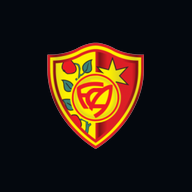
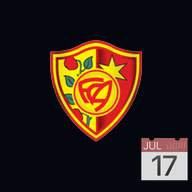
Skeleton-Ladeanimation + Auto-Refresh bei Tab-Wechsel (#2)
* Skeleton-Ladeanimation + Auto-Refresh bei Tab-Wechsel

Alle Seiten laden Daten neu, wenn der Tab/die PWA wieder in den
Vordergrund kommt (visibilitychange) – so sieht man immer den
aktuellen Stand, auch wenn ein anderer Trainer zwischenzeitlich
Änderungen gemacht hat.

Dashboard und Session-Edit zeigen während des Ladens animierte
Skeleton-Platzhalter statt "Lädt…"-Text.

* App umbenennen zu "FCA Anwesenheiten"

* Icon: Kalender-Badge unten rechts für App-Unterscheidung

---------

Changed region(s): [[0.2188, 0.1875, 0.75, 0.7812], [0.7188, 0.7188, 1.0, 0.9688]]

diff --git a/app/session/[id]/page.tsx b/app/session/[id]/page.tsx
@@ -9,6 +9,37 @@ import { buttonVariants } from '@/components/ui/button'
 import SessionForm from '@/components/SessionForm'
 import { cn } from '@/lib/utils'
 
+function SessionFormSkeleton() {
+  return (
+    <div className="space-y-5 animate-pulse">
+      <div className="space-y-1.5">
+        <div className="h-3 w-12 rounded bg-muted" />
+        <div className="h-11 w-full rounded-xl bg-muted" />
+      </div>
+      <div className="space-y-1.5">
+        <div className="h-3 w-8 rounded bg-muted" />
+        <div className="grid grid-cols-2 gap-2">
+          <div className="h-12 rounded-xl bg-muted" />
+          <div className="h-12 rounded-xl bg-muted" />
+        </div>
+      </div>
+      <div className="space-y-1.5">
+        <div className="h-3 w-20 rounded bg-muted" />
+        <div className="h-11 w-full rounded-xl bg-muted" />
+      </div>
+      <div className="space-y-3">
+        <div className="h-3 w-16 rounded bg-muted" />
+        <div className="grid grid-cols-2 gap-2 sm:grid-cols-3">
+          {Array.from({ length: 15 }).map((_, i) => (
+            <div key={i} className="h-16 rounded-xl bg-muted" />
+          ))}
+        </div>
+      </div>
+      <div className="h-12 w-full rounded-xl bg-muted" />
+    </div>
+  )
+}
+
 export default function EditSessionPage() {
   const { id } = useParams<{ id: string }>()
   const [players, setPlayers] = useState<Player[]>([])
@@ -17,27 +48,35 @@ export default function EditSessionPage() {
   const [loading, setLoading] = useState(true)
 
   useEffect(() => {
-    async function load() {
-      const [{ data: sessionData }, { data: playerData }, { data: attendanceData }] =
-        await Promise.all([
-          supabase.from('sessions').select('*').eq('id', id).single(),
-          supabase.from('players').select('*').eq('active', true).order('vorname'),
-          supabase.from('attendance').select('*').eq('session_id', id),
-        ])
-
-      setSession(sessionData)
-      setPlayers(playerData ?? [])
-
-      const map: Record<string, boolean> = {}
-      for (const p of playerData ?? []) {
-        const record = (attendanceData ?? []).find((a) => a.player_id === p.id)
-        map[p.id] = record?.present ?? false
-      }
-      setAttendance(map)
-      setLoading(false)
-    }
     load()
+
+    const onVisible = () => {
+      if (document.visibilityState === 'visible') load()
+    }
+    document.addEventListener('visibilitychange', onVisible)
+    return () => document.removeEventListener('visibilitychange', onVisible)
   }, [id])
+
+  async function load() {
+    setLoading(true)
+    const [{ data: sessionData }, { data: playerData }, { data: attendanceData }] =
+      await Promise.all([
+        supabase.from('sessions').select('*').eq('id', id).single(),
+        supabase.from('players').select('*').eq('active', true).order('vorname'),
+        supabase.from('attendance').select('*').eq('session_id', id),
+      ])
+
+    setSession(sessionData)
+    setPlayers(playerData ?? [])
+
+    const map: Record<string, boolean> = {}
+    for (const p of playerData ?? []) {
+      const record = (attendanceData ?? []).find((a) => a.player_id === p.id)
+      map[p.id] = record?.present ?? false
+    }
+    setAttendance(map)
+    setLoading(false)
+  }
 
   return (
     <div className="space-y-5">
@@ -49,7 +88,7 @@ export default function EditSessionPage() {
       </div>
 
       {loading ? (
-        <div className="text-center py-12 text-muted-foreground text-sm">Lädt…</div>
+        <SessionFormSkeleton />
       ) : session ? (
         <SessionForm
           players={players}

diff --git a/app/page.tsx b/app/page.tsx
@@ -8,12 +8,41 @@ import { buttonVariants } from '@/components/ui/button'
 import SessionCard from '@/components/SessionCard'
 import { cn } from '@/lib/utils'
 
+function SessionCardSkeleton() {
+  return (
+    <div className="rounded-xl border border-border/60 px-4 py-3.5 animate-pulse">
+      <div className="flex items-center justify-between gap-3">
+        <div className="flex-1 space-y-2">
+          <div className="flex items-center gap-2">
+            <div className="h-5 w-16 rounded-full bg-muted" />
+            <div className="h-4 w-28 rounded bg-muted" />
+          </div>
+          <div className="flex items-center gap-3">
+            <div className="h-4 w-24 rounded bg-muted" />
+            <div className="h-4 w-12 rounded bg-muted" />
+          </div>
+        </div>
+        <div className="flex gap-2 shrink-0">
+          <div className="h-8 w-16 rounded-lg bg-muted" />
+          <div className="h-8 w-8 rounded-lg bg-muted" />
+        </div>
+      </div>
+    </div>
+  )
+}
+
 export default function DashboardPage() {
   const [sessions, setSessions] = useState<SessionWithCount[]>([])
   const [loading, setLoading] = useState(true)
 
   useEffect(() => {
     loadSessions()
+
+    const onVisible = () => {
+      if (document.visibilityState === 'visible') loadSessions()
+    }
+    document.addEventListener('visibilitychange', onVisible)
+    return () => document.removeEventListener('visibilitychange', onVisible)
   }, [])
 
   async function loadSessions() {
@@ -68,7 +97,9 @@ export default function DashboardPage() {
       </div>
 
       {loading && (
-        <div className="text-center py-12 text-muted-foreground text-sm">Lädt…</div>
+        <div className="space-y-3">
+          {[1, 2, 3].map((i) => <SessionCardSkeleton key={i} />)}
+        </div>
       )}
 
       {!loading && sessions.length === 0 && (

diff --git a/app/layout.tsx b/app/layout.tsx
@@ -10,7 +10,7 @@ const jakarta = Plus_Jakarta_Sans({
 })
 
 export const metadata: Metadata = {
-  title: 'FC Zürich Affoltern – Anwesenheiten',
+  title: 'FCA Anwesenheiten',
   description: 'Trainings- und Turnier-Anwesenheiten tracken',
   icons: {
     icon: [
@@ -21,7 +21,7 @@ export const metadata: Metadata = {
   },
   appleWebApp: {
     capable: true,
-    title: 'FCZA Anwesenheiten',
+    title: 'FCA Anwesenheiten',
     statusBarStyle: 'black-translucent',
   },
 }
@@ -37,7 +37,7 @@ export default function RootLayout({ children }: { children: React.ReactNode }) 
         <header className="border-b border-border/60 bg-card/80 backdrop-blur sticky top-0 z-10">
           <div className="max-w-2xl mx-auto px-4 h-14 flex items-center justify-between">
             <Link href="/" className="font-extrabold text-base tracking-tight text-foreground hover:text-primary transition-colors">
-              FC Zürich Affoltern Fb
+              FCA Anwesenheiten
             </Link>
             <nav className="flex gap-1">
               <Link href="/" className="text-sm font-medium px-3 py-1.5 rounded-lg text-muted-foreground hover:text-foreground hover:bg-muted transition-colors">

diff --git a/app/report/page.tsx b/app/report/page.tsx
@@ -39,6 +39,12 @@ export default function ReportPage() {
 
   useEffect(() => {
     loadData()
+
+    const onVisible = () => {
+      if (document.visibilityState === 'visible') loadData()
+    }
+    document.addEventListener('visibilitychange', onVisible)
+    return () => document.removeEventListener('visibilitychange', onVisible)
   }, [])
 
   async function loadData() {

diff --git a/app/team/page.tsx b/app/team/page.tsx
@@ -36,6 +36,12 @@ export default function TeamPage() {
 
   useEffect(() => {
     loadPlayers()
+
+    const onVisible = () => {
+      if (document.visibilityState === 'visible') loadPlayers()
+    }
+    document.addEventListener('visibilitychange', onVisible)
+    return () => document.removeEventListener('visibilitychange', onVisible)
   }, [])
 
   async function loadPlayers() {

diff --git a/app/manifest.ts b/app/manifest.ts
@@ -2,8 +2,8 @@ import type { MetadataRoute } from 'next'
 
 export default function manifest(): MetadataRoute.Manifest {
   return {
-    name: 'FC Zürich Affoltern Fb – Anwesenheiten',
-    short_name: 'FCZA Anwesenheiten',
+    name: 'FCA Anwesenheiten',
+    short_name: 'FCA Anwesenheiten',
     description: 'Trainings- und Turnier-Anwesenheiten tracken',
     start_url: '/',
     display: 'standalone',